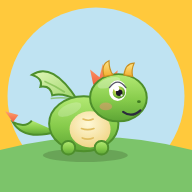
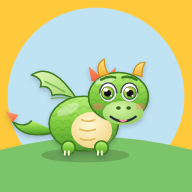
Personnages en volume façon film d'animation : grands yeux, écailles, pelage
Claude-Session: https://claude.ai/code/session_014ppiBfhQJmdojky3Cr5pnc

diff --git a/index.html b/index.html
@@ -90,78 +90,100 @@ const C={herbe:'#7CC46A',herbe2:'#5BA552',pist:'#8BCF4E',pistF:'#4E9A2C',ventre:
 
 function teinte(h,a){const n=parseInt(h.slice(1),16);let r=n>>16,g=n>>8&255,b=n&255;const t=a<0?0:255,p=Math.abs(a);r=Math.round(r+(t-r)*p);g=Math.round(g+(t-g)*p);b=Math.round(b+(t-b)*p);return '#'+((1<<24)+(r<<16)+(g<<8)+b).toString(16).slice(1);}
 function melange(h1,h2,t){const a=parseInt(h1.slice(1),16),b=parseInt(h2.slice(1),16);const f=s=>[(s>>16),(s>>8&255),(s&255)];const A=f(a),B=f(b);return '#'+A.map((v,i)=>Math.round(v+(B[i]-v)*t).toString(16).padStart(2,'0')).join('');}
-function oeil(cx,cy,r,{iris='gIris',cils=false}={}){
-  return `<ellipse cx="${cx}" cy="${cy}" rx="${r}" ry="${(r*1.2).toFixed(1)}" fill="#fff"/>
-  <circle cx="${(cx+r*.15).toFixed(1)}" cy="${(cy+r*.2).toFixed(1)}" r="${(r*.72).toFixed(1)}" fill="url(#${iris})"/>
-  <circle cx="${(cx+r*.18).toFixed(1)}" cy="${(cy+r*.24).toFixed(1)}" r="${(r*.38).toFixed(1)}" fill="#1B1626"/>
-  <circle cx="${(cx-r*.12).toFixed(1)}" cy="${(cy-r*.25).toFixed(1)}" r="${(r*.3).toFixed(1)}" fill="#fff"/>
-  <circle cx="${(cx+r*.45).toFixed(1)}" cy="${(cy+r*.55).toFixed(1)}" r="${(r*.13).toFixed(1)}" fill="#fff" opacity=".85"/>
-  <path d="M${(cx-r*.95).toFixed(1)} ${(cy-r*.35).toFixed(1)} Q${cx} ${(cy-r*1.62).toFixed(1)} ${(cx+r*.95).toFixed(1)} ${(cy-r*.35).toFixed(1)}" stroke="#2B2A3D" stroke-width="${(r*.16).toFixed(1)}" fill="none" stroke-linecap="round" opacity=".8"/>
-  ${cils?`<path d="M${cx+r*.9} ${cy-r*.75} l${r*.45} ${-r*.35} M${cx+r*.55} ${cy-r*1.05} l${r*.3} ${-r*.45}" stroke="#2B2A3D" stroke-width="${(r*.22).toFixed(1)}" stroke-linecap="round"/>`:''}`;
+function oeil(cx,cy,r,{iris='gIris',cils=false,sourcil='#5A3A22',dir=1}={}){
+  const ry=r*1.16, f=n=>(+n).toFixed(1);
+  return `<ellipse cx="${f(cx)}" cy="${f(cy+r*.12)}" rx="${f(r*1.05)}" ry="${f(ry*1.04)}" fill="#1B1530" opacity=".08"/>
+  <ellipse cx="${cx}" cy="${cy}" rx="${r}" ry="${f(ry)}" fill="url(#gBlanc)"/>
+  <circle cx="${f(cx+r*.06*dir)}" cy="${f(cy+r*.1)}" r="${f(r*.8)}" fill="url(#${iris})"/>
+  <circle cx="${f(cx+r*.06*dir)}" cy="${f(cy+r*.1)}" r="${f(r*.78)}" fill="none" stroke="#1B1626" stroke-opacity=".55" stroke-width="${f(r*.09)}"/>
+  <circle cx="${f(cx+r*.08*dir)}" cy="${f(cy+r*.13)}" r="${f(r*.42)}" fill="#120E1C"/>
+  <ellipse cx="${f(cx-r*.28)}" cy="${f(cy-r*.3)}" rx="${f(r*.28)}" ry="${f(r*.23)}" fill="#fff"/>
+  <circle cx="${f(cx+r*.36)}" cy="${f(cy+r*.42)}" r="${f(r*.11)}" fill="#fff" opacity=".9"/>
+  <path d="M${f(cx-r*1.02)} ${f(cy+r*.05)} A${r} ${f(ry)} 0 0 1 ${f(cx+r*1.02)} ${f(cy+r*.05)}" stroke="#2B2A3D" stroke-width="${f(r*.15)}" fill="none" stroke-linecap="round" opacity=".85"/>
+  ${cils?`<path d="M${f(cx+r*.9*dir)} ${f(cy-r*.55)} l${f(r*.42*dir)} ${f(-r*.3)} M${f(cx+r*.62*dir)} ${f(cy-r*.86)} l${f(r*.3*dir)} ${f(-r*.42)}" stroke="#2B2A3D" stroke-width="${f(r*.17)}" stroke-linecap="round"/>`:''}
+  ${sourcil?`<path d="M${f(cx-r*.85)} ${f(cy-ry*1.42-r*.14*dir)} Q${cx} ${f(cy-ry*1.78)} ${f(cx+r*.85)} ${f(cy-ry*1.42+r*.14*dir)}" stroke="${sourcil}" stroke-width="${f(r*.3)}" fill="none" stroke-linecap="round"/>`:''}`;
 }
-const oeilFerme=(cx,cy,r)=>`<path d="M${cx-r} ${cy} q${r} ${r*.9} ${2*r} 0" stroke="#2B2A3D" stroke-width="${(r*.3).toFixed(1)}" fill="none" stroke-linecap="round"/><path d="M${cx-r*.7} ${cy+r*.45} l-${r*.3} ${r*.35} M${cx} ${cy+r*.65} v${r*.4} M${cx+r*.7} ${cy+r*.45} l${r*.3} ${r*.35}" stroke="#2B2A3D" stroke-width="${(r*.2).toFixed(1)}" stroke-linecap="round"/>`;
+const oeilFerme=(cx,cy,r,brow='#3F7A22')=>`<path d="M${cx-r} ${cy} q${r} ${r*1} ${2*r} 0" stroke="#2B2A3D" stroke-width="${(r*.26).toFixed(1)}" fill="none" stroke-linecap="round"/><path d="M${cx-r*.6} ${cy+r*.5} l-${r*.3} ${r*.38} M${cx+r*.6} ${cy+r*.5} l${r*.3} ${r*.38}" stroke="#2B2A3D" stroke-width="${(r*.2).toFixed(1)}" stroke-linecap="round"/><path d="M${cx-r*.8} ${cy-r*1.2} q${r*.8} -${r*.4} ${r*1.6} 0" stroke="${brow}" stroke-width="${(r*.28).toFixed(1)}" fill="none" stroke-linecap="round"/>`;
 const ombreSol=(cx,cy,rx)=>`<ellipse cx="${cx}" cy="${cy}" rx="${rx}" ry="${(rx*.16).toFixed(1)}" fill="#1E2A10" opacity=".2"/>`;
 function dragon(x,y,s=1,{yeux='ouverts',flamme=false,ailes=true,hoquet=false}={}){
-  const o = yeux==='fermes' ? oeilFerme(37,-40,10) : oeil(37,-42,11,{iris:'gIrisD'});
-  const feu = flamme ? `<g transform="translate(70,-22)"><path d="M0 0 q20 -18 40 -4 q-8 5 -2 10 q-20 10 -38 -6z" fill="url(#gFeu)"/><path d="M4 0 q12 -8 22 0 q-12 6 -22 0z" fill="#FFF3B0"/><circle cx="30" cy="-2" r="16" fill="url(#gHalo)"/></g>`:'';
-  const hic = hoquet ? `<g transform="translate(72,-32)"><circle r="5" fill="url(#gHalo)"/><circle r="3.5" fill="#FFE27A"/><circle cx="12" cy="-9" r="3" fill="#FF8A5C"/><circle cx="6" cy="-20" r="2.5" fill="#FFE27A"/></g>`:'';
+  const brow='#3F7A22';
+  const o = yeux==='fermes' ? oeilFerme(26,-38,9,brow)+oeilFerme(52,-38,9,brow) : oeil(25,-40,10.5,{iris:'gIrisD',sourcil:brow,dir:-1})+oeil(52,-40,10.5,{iris:'gIrisD',sourcil:brow,dir:1});
+  const feu = flamme ? `<g transform="translate(70,-14)"><circle cx="30" cy="-4" r="22" fill="url(#gHalo)"/><path d="M0 0 q20 -18 40 -4 q-8 5 -2 10 q-20 10 -38 -6z" fill="url(#gFeu)"/><path d="M4 0 q12 -8 22 0 q-12 6 -22 0z" fill="#FFF3B0"/></g>`:'';
+  const hic = hoquet ? `<g transform="translate(74,-22)"><circle r="6" fill="url(#gHalo)"/><circle r="3.5" fill="#FFE27A"/><circle cx="12" cy="-9" r="3" fill="#FF8A5C"/><circle cx="6" cy="-20" r="2.5" fill="#FFE27A"/></g>`:'';
   return `<g class="touche dragon" data-son="dragon" transform="translate(${x},${y}) scale(${s})">
-    ${ombreSol(-4,40,54)}
-    <g class="corps">
-    <path d="M-40 10 q-42 12 -56 -12 q16 8 24 -2" fill="url(#gPist)" stroke="#4E8F2C" stroke-width="2.5"/>
+    ${ombreSol(-4,40,56)}
+    <g class="corps" filter="url(#volume)">
+    <path d="M-40 10 q-42 12 -56 -12 q16 8 24 -2" fill="url(#gPist)" stroke="#3F7A22" stroke-width="2"/>
     <path d="M-96 -2 l-10 -14 l17 5z" fill="url(#gCrete)"/>
-    ${ailes?`<path d="M-14 -30 q-32 -50 -58 -32 q15 5 11 15 q13 -2 15 11 q13 -4 32 6z" fill="url(#gAile)" stroke="#4E8F2C" stroke-width="2.5"/><path d="M-30 -40 q-12 -8 -26 -14 M-24 -32 q-10 -2 -24 0" stroke="#7DBB4E" stroke-width="2" fill="none" opacity=".7"/>`:''}
-    <ellipse cx="-6" cy="0" rx="44" ry="35" fill="url(#gPist)" stroke="#4E8F2C" stroke-width="2.5"/>
-    <ellipse cx="2" cy="7" rx="26" ry="23" fill="url(#gVentre)"/>
-    <path d="M-8 18 q7 3 14 0 M-9 6 q8 3 16 0 M-7 -6 q7 3 13 0" stroke="#E0BE62" stroke-width="2" fill="none" stroke-linecap="round"/>
-    <ellipse cx="-24" cy="-18" rx="16" ry="7" fill="#fff" opacity=".22" transform="rotate(-25 -24 -18)"/>
-    <rect x="-34" y="22" width="17" height="17" rx="8" fill="url(#gPist)" stroke="#4E8F2C" stroke-width="2.5"/>
-    <rect x="8" y="22" width="17" height="17" rx="8" fill="url(#gPist)" stroke="#4E8F2C" stroke-width="2.5"/>
-    <path d="M6 -50 l-4 -19 l12 10 l4 -17 l9 17 l10 -9 l-2 19z" fill="url(#gCrete)"/>
-    <ellipse cx="38" cy="-33" rx="36" ry="30" fill="url(#gPist)" stroke="#4E8F2C" stroke-width="2.5"/>
-    <ellipse cx="26" cy="-52" rx="15" ry="6" fill="#fff" opacity=".28" transform="rotate(-18 26 -52)"/>
-    <path d="M20 -60 q-5 -15 6 -20 q0 11 5 18z" fill="url(#gCorne)" stroke="#C99021" stroke-width="1.5"/>
-    <path d="M45 -62 q2 -15 13 -15 q-4 9 -2 17z" fill="url(#gCorne)" stroke="#C99021" stroke-width="1.5"/>
+    ${ailes?`<path d="M-14 -30 q-32 -50 -58 -32 q15 5 11 15 q13 -2 15 11 q13 -4 32 6z" fill="url(#gAile)" stroke="#3F7A22" stroke-width="2"/><path d="M-30 -40 q-12 -8 -26 -14 M-24 -32 q-10 -2 -24 0" stroke="#6FAE3E" stroke-width="2" fill="none" opacity=".8"/>`:''}
+    <ellipse cx="-6" cy="0" rx="44" ry="35" fill="url(#gPist)" stroke="#3F7A22" stroke-width="2"/>
+    <ellipse cx="-6" cy="0" rx="44" ry="35" fill="url(#ecailles)"/>
+    <ellipse cx="-6" cy="0" rx="44" ry="35" fill="url(#gRim)"/>
+    <ellipse cx="4" cy="8" rx="26" ry="23" fill="url(#gVentre)"/>
+    <path d="M-10 19 q9 4 18 0 M-11 7 q10 4 20 0 M-9 -5 q9 4 17 0" stroke="#DDB758" stroke-width="2" fill="none" stroke-linecap="round"/>
+    <ellipse cx="-26" cy="-18" rx="15" ry="6" fill="#fff" opacity=".35" transform="rotate(-25 -26 -18)"/>
+    <rect x="-34" y="22" width="17" height="17" rx="8" fill="url(#gPist)" stroke="#3F7A22" stroke-width="2"/>
+    <rect x="8" y="22" width="17" height="17" rx="8" fill="url(#gPist)" stroke="#3F7A22" stroke-width="2"/>
+    <path d="M-30 39 v-4 M-25 39 v-4 M12 39 v-4 M17 39 v-4" stroke="#F7F1DC" stroke-width="2.5" stroke-linecap="round"/>
+    <path d="M4 -54 l-4 -19 l12 10 l4 -17 l9 17 l10 -9 l-2 19z" fill="url(#gCrete)"/>
+    <ellipse cx="38" cy="-34" rx="38" ry="31" fill="url(#gPist)" stroke="#3F7A22" stroke-width="2"/>
+    <ellipse cx="38" cy="-34" rx="38" ry="31" fill="url(#ecailles)"/>
+    <ellipse cx="38" cy="-34" rx="38" ry="31" fill="url(#gRim)"/>
+    <ellipse cx="22" cy="-56" rx="14" ry="5" fill="#fff" opacity=".4" transform="rotate(-15 22 -56)"/>
+    <path d="M14 -60 q-6 -16 6 -22 q0 12 6 19z" fill="url(#gCorne)" stroke="#C99021" stroke-width="1.5"/>
+    <path d="M56 -63 q4 -16 16 -15 q-5 9 -4 18z" fill="url(#gCorne)" stroke="#C99021" stroke-width="1.5"/>
+    <ellipse cx="44" cy="-14" rx="26" ry="15" fill="url(#gMuseau)"/>
+    <ellipse cx="38" cy="-20" rx="3" ry="2.2" fill="#2E5E18"/><ellipse cx="51" cy="-20" rx="3" ry="2.2" fill="#2E5E18"/>
+    <path d="M28 -9 q16 12 32 0" stroke="#2B2A3D" stroke-width="2.8" fill="none" stroke-linecap="round"/>
+    <path d="M38 -5 q6 6 12 0z" fill="#FF8C9A"/>
     ${o}
-    <ellipse cx="64" cy="-28" rx="2.4" ry="1.8" fill="#3F7A22"/>
-    <path d="M44 -15 q11 8 22 -2" stroke="#2B2A3D" stroke-width="2.8" fill="none" stroke-linecap="round"/>
-    <ellipse cx="22" cy="-22" rx="8" ry="5" fill="#FF8C7A" opacity=".45"/>
+    <ellipse cx="12" cy="-22" rx="7" ry="4.5" fill="#FF7F6E" opacity=".45"/><ellipse cx="66" cy="-22" rx="6" ry="4" fill="#FF7F6E" opacity=".4"/>
     </g>${feu}${hic}</g>`;
 }
 function chienne(x,y,s=1,{casque=false}={}){
   return `<g class="touche" data-son="ouaf" transform="translate(${x},${y}) scale(${s})">
     ${ombreSol(2,40,40)}
-    <path d="M-30 4 q-20 -10 -21 -26" stroke="url(#gChien)" stroke-width="8" fill="none" stroke-linecap="round"/>
-    <ellipse cx="0" cy="8" rx="34" ry="24" fill="url(#gChien)" stroke="#A9682F" stroke-width="2.5"/>
-    <ellipse cx="4" cy="14" rx="18" ry="12" fill="#FCE6C8" opacity=".9"/>
-    <rect x="-24" y="20" width="12" height="19" rx="6" fill="url(#gChien)" stroke="#A9682F" stroke-width="2.5"/>
-    <rect x="12" y="20" width="12" height="19" rx="6" fill="url(#gChien)" stroke="#A9682F" stroke-width="2.5"/>
-    <circle cx="24" cy="-22" r="27" fill="url(#gChien)" stroke="#A9682F" stroke-width="2.5"/>
-    <ellipse cx="14" cy="-38" rx="11" ry="5" fill="#fff" opacity=".25" transform="rotate(-20 14 -38)"/>
-    <ellipse cx="39" cy="-13" rx="15" ry="11" fill="#FCE6C8"/>
-    <ellipse cx="50" cy="-19" rx="5.5" ry="4.2" fill="#2B2A3D"/><ellipse cx="48.5" cy="-20.5" rx="1.8" ry="1.1" fill="#fff" opacity=".7"/>
-    <path d="M3 -42 q-18 0 -14 30 q11 -5 16 -20z" fill="#8A4F22"/>
-    <path d="M36 -46 q15 -9 20 7 q-9 2 -15 4z" fill="#8A4F22"/>
-    ${oeil(28,-29,6.5)}
-    <path d="M38 -5 q5 9 12 2" stroke="#2B2A3D" stroke-width="2.4" fill="none" stroke-linecap="round"/>
-    <path d="M42 -3 q2 6 5 1z" fill="#FF7A8A"/>
-    <ellipse cx="22" cy="-12" rx="6" ry="4" fill="#FF8C7A" opacity=".35"/>
-    <path d="M12 -2 q12 6 24 0" stroke="#3E7BD6" stroke-width="6" fill="none" stroke-linecap="round"/>
-    <circle cx="24" cy="4" r="5" fill="url(#gCorne)" stroke="#C99021" stroke-width="1.5"/>
-    ${casque?`<path d="M2 -42 q20 -30 48 -6 z" fill="url(#gFeu)" stroke="#C9553A" stroke-width="2"/><ellipse cx="22" cy="-52" rx="8" ry="3" fill="#fff" opacity=".4"/>`:''}
+    <g filter="url(#volume)">
+    <path d="M-30 4 q-20 -10 -21 -26" stroke="url(#gChien)" stroke-width="9" fill="none" stroke-linecap="round"/>
+    <path d="M-52 -22 l-4 -6 M-50 -24 l1 -7" stroke="#C98545" stroke-width="3" stroke-linecap="round"/>
+    <ellipse cx="0" cy="8" rx="34" ry="24" fill="url(#gChien)" stroke="#A9682F" stroke-width="2"/>
+    <ellipse cx="0" cy="8" rx="34" ry="24" fill="url(#gRim)"/>
+    <ellipse cx="6" cy="14" rx="18" ry="12" fill="#FCE6C8" opacity=".9"/>
+    <rect x="-24" y="20" width="12" height="19" rx="6" fill="url(#gChien)" stroke="#A9682F" stroke-width="2"/>
+    <rect x="12" y="20" width="12" height="19" rx="6" fill="url(#gChien)" stroke="#A9682F" stroke-width="2"/>
+    <path d="M-2 -46 q-20 -2 -18 34 q12 -4 20 -22z" fill="#8A4F22"/>
+    <path d="M50 -46 q20 -2 18 34 q-12 -4 -20 -22z" fill="#8A4F22"/>
+    <circle cx="24" cy="-22" r="28" fill="url(#gChien)" stroke="#A9682F" stroke-width="2"/>
+    <circle cx="24" cy="-22" r="28" fill="url(#gRim)"/>
+    <path d="M12 -48 q3 -10 7 -2 q3 -11 8 -1 q4 -9 7 2" fill="url(#gChien)" stroke="#A9682F" stroke-width="1.5"/>
+    <ellipse cx="14" cy="-40" rx="10" ry="4.5" fill="#fff" opacity=".3" transform="rotate(-20 14 -40)"/>
+    <ellipse cx="25" cy="-9" rx="16" ry="12" fill="#FCE6C8"/>
+    <ellipse cx="25" cy="-15" rx="6.5" ry="4.8" fill="#2B2A3D"/><ellipse cx="23" cy="-16.5" rx="2.2" ry="1.3" fill="#fff" opacity=".75"/>
+    ${oeil(13,-28,7,{iris:'gIrisChien',sourcil:'#7A4420',dir:-1})}${oeil(36,-28,7,{iris:'gIrisChien',sourcil:'#7A4420'})}
+    <path d="M17 -4 q8 8 16 0" stroke="#2B2A3D" stroke-width="2.4" fill="none" stroke-linecap="round"/>
+    <path d="M22 -2 q3 8 6 0z" fill="#FF7A8A"/>
+    <ellipse cx="5" cy="-14" rx="5" ry="3.5" fill="#FF8C7A" opacity=".35"/><ellipse cx="44" cy="-14" rx="5" ry="3.5" fill="#FF8C7A" opacity=".35"/>
+    <path d="M10 2 q14 7 28 0" stroke="#3E7BD6" stroke-width="6" fill="none" stroke-linecap="round"/>
+    <circle cx="24" cy="7" r="5" fill="url(#gCorne)" stroke="#C99021" stroke-width="1.5"/>
+    ${casque?`<path d="M-4 -44 q28 -34 56 0 z" fill="url(#gFeu)" stroke="#C9553A" stroke-width="2"/><rect x="18" y="-58" width="12" height="10" rx="3" fill="url(#gCorne)"/><ellipse cx="14" cy="-54" rx="8" ry="3" fill="#fff" opacity=".45"/>`:''}
+    </g>
   </g>`;
 }
 function chaton(x,y,s=1){
   return `<g class="touche" data-son="miaou" transform="translate(${x},${y}) scale(${s})">
     ${ombreSol(0,20,18)}
+    <g filter="url(#volume)">
     <path d="M14 6 q15 -4 13 -19" stroke="url(#gChat)" stroke-width="5" fill="none" stroke-linecap="round"/>
-    <ellipse cx="0" cy="8" rx="16" ry="12" fill="url(#gChat)" stroke="#8C92A1" stroke-width="1.5"/>
-    <path d="M-17 -16 l2 -13 l9 8z M5 -16 l-2 -13 l-9 8z" fill="url(#gChat)" stroke="#8C92A1" stroke-width="1.5"/>
-    <path d="M-14 -18 l1 -6 l4 4z M3 -18 l-1 -6 l-4 4z" fill="#FFB3C1"/>
-    <circle cx="-6" cy="-10" r="14" fill="url(#gChat)" stroke="#8C92A1" stroke-width="1.5"/>
-    ${oeil(-11,-11,3.6,{iris:'gIrisC'})}${oeil(-1,-11,3.6,{iris:'gIrisC'})}
-    <path d="M-7.5 -4.5 l1.5 1.2 l1.5 -1.2z" fill="#FF8FA3"/>
-    <path d="M-9 -2 q3 3 6 0" stroke="#2B2A3D" stroke-width="1.3" fill="none"/>
+    <ellipse cx="0" cy="8" rx="16" ry="12" fill="url(#gChat)" stroke="#8C92A1" stroke-width="1.2"/>
+    <path d="M-18 -16 l1 -14 l10 9z M6 -16 l-1 -14 l-10 9z" fill="url(#gChat)" stroke="#8C92A1" stroke-width="1.2"/>
+    <path d="M-15 -18 l1 -7 l4 4z M3 -18 l-1 -7 l-4 4z" fill="#FFB3C1"/>
+    <circle cx="-6" cy="-10" r="15" fill="url(#gChat)" stroke="#8C92A1" stroke-width="1.2"/>
+    <circle cx="-6" cy="-10" r="15" fill="url(#gRim)"/>
+    ${oeil(-12,-12,4.6,{iris:'gIrisC',sourcil:false,dir:-1})}${oeil(0,-12,4.6,{iris:'gIrisC',sourcil:false})}
+    <path d="M-7.5 -4 l1.5 1.2 l1.5 -1.2z" fill="#FF8FA3"/>
+    <path d="M-9 -1.5 q3 3 6 0" stroke="#2B2A3D" stroke-width="1.2" fill="none"/>
+    <path d="M-16 -5 h-7 M-16 -3 l-7 2 M4 -5 h7 M4 -3 l7 2" stroke="#8C92A1" stroke-width=".8"/>
+    </g>
   </g>`;
 }
 const fond=(ciel='#BFE3F2',sol=C.herbe)=>{
@@ -190,7 +212,14 @@ const bulles=(x,y)=>[0,1,2,3].map(i=>`<circle class="bulle" style="animation-del
 const lit=(x,y)=>`<g transform="translate(${x},${y})"><rect x="-120" y="-10" width="240" height="60" rx="16" fill="#8E7CC3"/><rect x="-130" y="-60" width="26" height="110" rx="10" fill="#6B5AA5"/><rect x="104" y="-30" width="26" height="80" rx="10" fill="#6B5AA5"/><ellipse cx="-80" cy="-14" rx="30" ry="16" fill="#fff"/></g>`;
 const couverture=(x,y)=>`<path transform="translate(${x},${y})" d="M-100 -30 q100 -30 210 0 v40 h-210z" fill="${C.sol}"/><g transform="translate(${x},${y})">${[-70,-30,10,50,90].map(c=>`<circle cx="${c}" cy="-6" r="6" fill="${C.cor}"/>`).join('')}</g>`;
 const DEFS=`<defs>
-<linearGradient id="gPist" x1="0" y1="0" x2="0" y2="1"><stop offset="0" stop-color="#B4EA74"/><stop offset=".55" stop-color="#86CB4B"/><stop offset="1" stop-color="#5DA535"/></linearGradient>
+<linearGradient id="gBlanc" x1="0" y1="0" x2="0" y2="1"><stop offset="0" stop-color="#FFFFFF"/><stop offset="1" stop-color="#DCE0EC"/></linearGradient>
+<radialGradient id="gRim" cx=".35" cy=".3" r=".75"><stop offset=".72" stop-color="#fff" stop-opacity="0"/><stop offset=".92" stop-color="#1B1530" stop-opacity=".12"/><stop offset="1" stop-color="#FFF7D6" stop-opacity=".35"/></radialGradient>
+<radialGradient id="gMuseau" cx=".4" cy=".3" r=".8"><stop offset="0" stop-color="#D8F5A8"/><stop offset="1" stop-color="#8FCB55"/></radialGradient>
+<radialGradient id="gIrisChien" cx=".4" cy=".35" r=".7"><stop offset="0" stop-color="#C98A4A"/><stop offset="1" stop-color="#5A3214"/></radialGradient>
+<radialGradient id="gIrisVert" cx=".4" cy=".35" r=".7"><stop offset="0" stop-color="#9BC98A"/><stop offset="1" stop-color="#3E6E4A"/></radialGradient>
+<pattern id="ecailles" width="11" height="9" patternUnits="userSpaceOnUse"><path d="M0 9 q5.5 -9 11 0" stroke="#2E6A18" stroke-opacity=".22" fill="none" stroke-width="1.3"/></pattern>
+<filter id="volume" x="-20%" y="-20%" width="140%" height="150%"><feDropShadow dx="0" dy="3" stdDeviation="2.5" flood-color="#1B1530" flood-opacity=".22"/></filter>
+<linearGradient id="gPist" x1="0" y1="0" x2="0" y2="1"><stop offset="0" stop-color="#BFF27A"/><stop offset=".5" stop-color="#7FCB3E"/><stop offset="1" stop-color="#4E9A28"/></linearGradient>
 <linearGradient id="gAile" x1="0" y1="0" x2="1" y2="1"><stop offset="0" stop-color="#E2F7B8"/><stop offset="1" stop-color="#9DD46A"/></linearGradient>
 <linearGradient id="gCrete" x1="0" y1="0" x2="0" y2="1"><stop offset="0" stop-color="#FFA36E"/><stop offset="1" stop-color="#F0603F"/></linearGradient>
 <linearGradient id="gCorne" x1="0" y1="0" x2="0" y2="1"><stop offset="0" stop-color="#FFE68A"/><stop offset="1" stop-color="#F2AE2E"/></linearGradient>
@@ -226,7 +255,7 @@ function garcon(x,y,s=1,{cartable=false,bras=false,content=true}={}){
     ${cartable?`<path d="M-14 -32 l4 30 M12 -32 l-4 30" stroke="#C9553A" stroke-width="4"/>`:''}
     <circle cx="0" cy="-56" r="26" fill="url(#gPeau)"/>
     <path d="M-27 -58 q0 -30 28 -28 q26 0 26 24 q-8 -10 -18 -12 q-4 8 -14 6 q-10 2 -22 10z" fill="#6B4226"/>
-    ${oeil(-9,-54,5.4)}${oeil(9,-54,5.4)}
+    ${oeil(-9,-55,6.6,{dir:-1})}${oeil(9,-55,6.6,{dir:1})}
     <circle cx="-15" cy="-45" r="5" fill="#FF9F8A" opacity=".5"/><circle cx="15" cy="-45" r="5" fill="#FF9F8A" opacity=".5"/>
     ${content?`<path d="M-8 -42 q8 8 16 0" stroke="${C.enc}" stroke-width="2.8" fill="none" stroke-linecap="round"/>`:`<path d="M-6 -40 q6 -4 12 0" stroke="${C.enc}" stroke-width="2.8" fill="none" stroke-linecap="round"/>`}
   </g>`;
@@ -249,7 +278,7 @@ function fille(x,y,s=1,{bras=false,fraise=false}={}){
     <circle cx="0" cy="-60" r="25" fill="url(#gPeau)"/>
     <path d="M-26 -60 q-2 -32 26 -30 q28 -2 26 30 q-6 -16 -26 -18 q-20 2 -26 18z" fill="#4A2E1C"/>
     <circle cx="20" cy="-80" r="5" fill="${C.sol}"/>
-    ${oeil(-8,-58,5.2,{cils:true})}${oeil(8,-58,5.2,{cils:true})}
+    ${oeil(-8,-59,6.4,{cils:true,sourcil:'#3B2414',dir:-1})}${oeil(8,-59,6.4,{cils:true,sourcil:'#3B2414',dir:1})}
     <circle cx="-14" cy="-49" r="4.5" fill="#FF9F8A" opacity=".5"/><circle cx="14" cy="-49" r="4.5" fill="#FF9F8A" opacity=".5"/>
     <path d="M-7 -46 q7 7 14 0" stroke="${C.enc}" stroke-width="2.6" fill="none" stroke-linecap="round"/>
   </g>`;
@@ -267,7 +296,7 @@ function tata(x,y,s=1,{carnet=false,bras=false}={}){
     <rect x="-7" y="-80" width="14" height="14" fill="url(#gPeau)"/>
     <circle cx="0" cy="-100" r="26" fill="url(#gPeau)"/>
     <path d="M-28 -100 q-2 -34 28 -32 q30 -2 28 32 q-10 -20 -30 -22 q-14 6 -26 22z" fill="#7A4A2A"/>
-    ${oeil(-9,-98,5,{cils:true})}${oeil(9,-98,5,{cils:true})}
+    ${oeil(-9,-99,6.2,{cils:true,iris:'gIrisVert',sourcil:'#5A3418',dir:-1})}${oeil(9,-99,6.2,{cils:true,iris:'gIrisVert',sourcil:'#5A3418',dir:1})}
     <circle cx="-15" cy="-89" r="5" fill="#FF9F8A" opacity=".45"/><circle cx="15" cy="-89" r="5" fill="#FF9F8A" opacity=".45"/>
     <path d="M-8 -86 q8 8 16 0" stroke="${C.enc}" stroke-width="2.8" fill="none" stroke-linecap="round"/>
   </g>`;

diff --git a/sw.js b/sw.js
@@ -1,4 +1,4 @@
-const CACHE='pistache-v8';
+const CACHE='pistache-v9';
 const FICHIERS=['./','index.html','manifest.webmanifest','icons/icon-192.png','icons/icon-512.png','icons/apple-touch-icon.png','audio/chaton-0.mp3','audio/chaton-1.mp3','audio/chaton-2.mp3','audio/chaton-3.mp3','audio/chaton-4.mp3','audio/chaton-5.mp3','audio/chaton-6.mp3','audio/chaton-7.mp3','audio/chaton-8.mp3','audio/chaton-9.mp3','audio/dodo-0.mp3','audio/dodo-1.mp3','audio/dodo-2.mp3','audio/dodo-3.mp3','audio/dodo-4.mp3','audio/dodo-5.mp3','audio/dodo-6.mp3','audio/dodo-7.mp3','audio/dodo-8.mp3','audio/dodo-9.mp3','audio/dodo-fin.mp3','audio/fin.mp3','audio/gateau-0.mp3','audio/gateau-1.mp3','audio/gateau-2.mp3','audio/gateau-3.mp3','audio/gateau-4.mp3','audio/gateau-5.mp3','audio/gateau-6.mp3','audio/gateau-7.mp3','audio/gateau-8.mp3','audio/gateau-9.mp3','audio/hoquet-0.mp3','audio/hoquet-1.mp3','audio/hoquet-10.mp3','audio/hoquet-2.mp3','audio/hoquet-3.mp3','audio/hoquet-4.mp3','audio/hoquet-5.mp3','audio/hoquet-6.mp3','audio/hoquet-7.mp3','audio/hoquet-8.mp3','audio/hoquet-9.mp3','audio/lia-0.mp3','audio/lia-1.mp3','audio/lia-10.mp3','audio/lia-2.mp3','audio/lia-3.mp3','audio/lia-4.mp3','audio/lia-5.mp3','audio/lia-6.mp3','audio/lia-7.mp3','audio/lia-8.mp3','audio/lia-9.mp3','audio/noa-0.mp3','audio/noa-1.mp3','audio/noa-10.mp3','audio/noa-2.mp3','audio/noa-3.mp3','audio/noa-4.mp3','audio/noa-5.mp3','audio/noa-6.mp3','audio/noa-7.mp3','audio/noa-8.mp3','audio/noa-9.mp3','audio/noa-fin.mp3'];
 self.addEventListener('install',e=>{e.waitUntil(caches.open(CACHE).then(c=>c.addAll(FICHIERS)));self.skipWaiting();});
 self.addEventListener('activate',e=>{e.waitUntil(caches.keys().then(k=>Promise.all(k.filter(n=>n!==CACHE).map(n=>caches.delete(n)))));self.clients.claim();});
